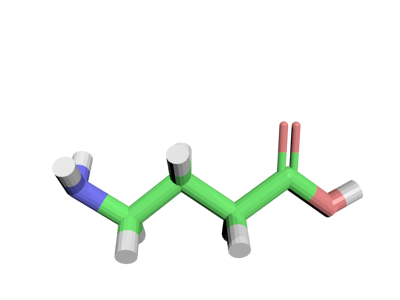
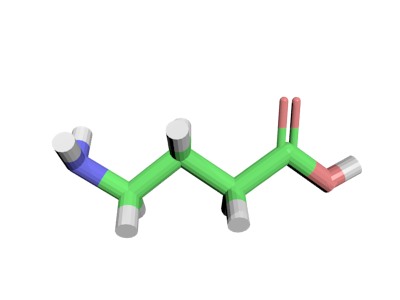
added fading

Changed region(s): [[0.12, 0.3, 0.93, 0.9]]

diff --git a/gamma.js b/gamma.js
@@ -31,9 +31,9 @@ function drawline(x1,y1,x2,y2){
 
 function intro(step){
 
-  if (step>330){
-    gabaalphastep=1-((step-330)/350)
-    ctx.drawImage(gaba0,200,50)
+  if (step>400){
+    gabaalphastep=1-((step-400)/350)
+    ctx.drawImage(gaba0,200,100)
     eval("ctx.fillStyle = 'rgba(0, 0, 0,"+gabaalphastep+")'")
     ctx.fillRect(0,0,800,600)
     ctx.fillStyle="white"
@@ -93,13 +93,13 @@ function intro(step){
 
 function threedgaba(step){
 
-  eval("ctx.drawImage(cube"+Math.floor(step%60)+",400,300)")
+  ctx.drawImage(gaba0,200,50)
 }
 
 ///////////////////////////////////////////////////////////////////////////////
 ///////////////////////////////////////////////////////////////////////////////
 
-test=0
+test=1
 function main(){
   
   if(noclear==0){ctx.clearRect(0,0,800,600);}
@@ -107,8 +107,8 @@ function main(){
   ctx.fillStyle="white";
   ctx.strokeStyle="white";
 
-
-  // intro(step)
+  // test zone
+  intro(step)
   // threedgaba(step)
 
   if (test==0){
@@ -116,7 +116,10 @@ function main(){
     if (step<670){
       intro(step)
     }
+
     else if (step<1000){
+      step=step-670
+      threedgaba(step)
       ctx.fillText("untz untz untz",350,300)
     }
   }
@@ -201,7 +204,7 @@ function menu(){
     ctx.clearRect(0,0,800,600);
     drawline(100,250,700,250);
     drawline(100,350,700,350);
-    ctx.fillText("PLAY",325,310);
+    ctx.fillText("PLAY",350,310);
     done=1;
     c.addEventListener("mousedown",demo,false)
     },false
